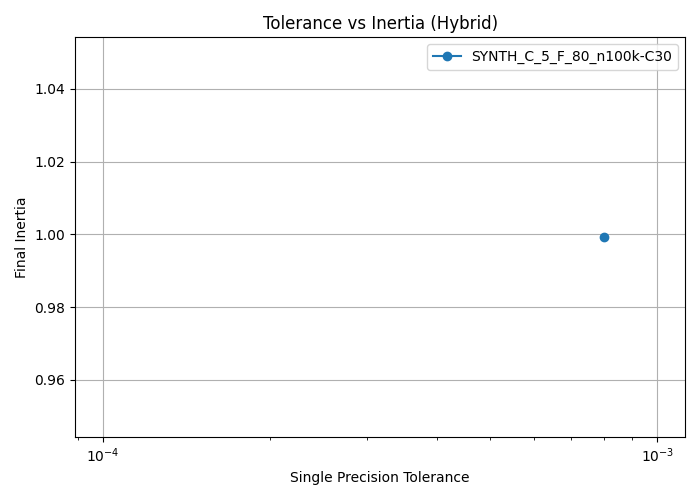
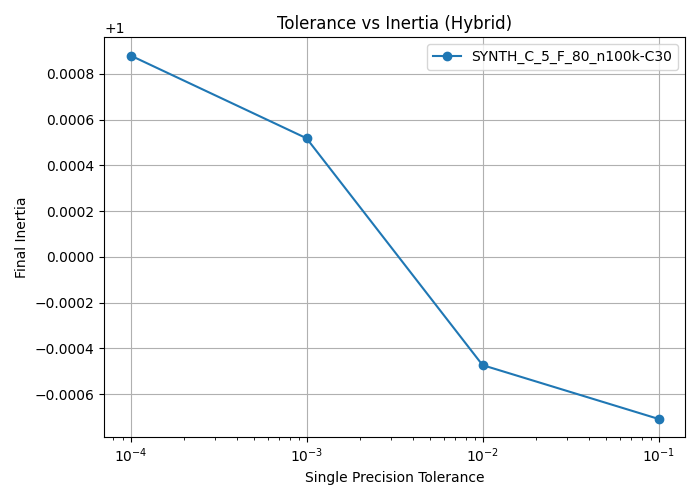
feat: exp a and b work

diff --git a/kmeans_main.py b/kmeans_main.py
@@ -73,7 +73,7 @@ precisions = {
     "Double Precision": np.float64
 }
 
-def run_one_dataset(ds_name: str, X_full: np.ndarray, y_full, rows_A, rows_B, rows_C, rows_D):
+def run_one_dataset(ds_name: str, X_full: np.ndarray, y_full, rows_A, rows_B):
     if ds_name.startswith("SYNTH"):
         sample_sizes = dataset_sizes
     else:
@@ -109,26 +109,26 @@ def run_one_dataset(ds_name: str, X_full: np.ndarray, y_full, rows_A, rows_B, ro
 
                 rows_A += run_experiment_A(ds_name, X_cur, y_true_cur, n_clusters, initial_centers, config)
                 rows_B += run_experiment_B(ds_name, X_cur, y_true_cur, n_clusters, initial_centers, config)
-                rows_C += run_experiment_C(ds_name, X_cur, y_true_cur, n_clusters, initial_centers, config)
-                rows_D += run_experiment_D(ds_name, X_cur, y_true_cur, n_clusters, initial_centers, config)
+                # rows_C += run_experiment_C(ds_name, X_cur, y_true_cur, n_clusters, initial_centers, config)
+                # rows_D += run_experiment_D(ds_name, X_cur, y_true_cur, n_clusters, initial_centers, config)
 
                     
-    return rows_A, rows_B, rows_C, rows_D
+    return rows_A, rows_B
 
 all_rows = []
 
 
 rows_A = []
 rows_B = []
-rows_C = []
-rows_D = []
+# rows_C = []
+# rows_D = []
 
 for tag, n, d, k, seed in synth_specs:
     X, y = generate_synthetic_data(n, d, k, seed)
     print(f"[SYNTH] {tag:14s}  shape={X.shape}  any_NaN={np.isnan(X).any()}",
           flush=True)
     # check if the mappings are correct to the run_one_dataset
-    run_one_dataset(tag, X, y, rows_A, rows_B, rows_C, rows_D)
+    run_one_dataset(tag, X, y, rows_A, rows_B)
 
 # real datasets
 # for tag, loader in real_datasets.items():
@@ -137,8 +137,8 @@ for tag, n, d, k, seed in synth_specs:
 
 df_A = pd.DataFrame(rows_A, columns=columns_A)
 df_B = pd.DataFrame(rows_B, columns=columns_B)
-df_C= pd.DataFrame(rows_C, columns=columns_C)
-df_D = pd.DataFrame(rows_D, columns=columns_D)
+# df_C= pd.DataFrame(rows_C, columns=columns_C)
+# df_D = pd.DataFrame(rows_D, columns=columns_D)
 
 print("Saved:")
 print("- hybrid_kmeans_results_expA.csv")
@@ -158,19 +158,19 @@ print(df_B.groupby([
     'tolerance_single', 'iter_single', 'iter_double', 'Suite'
 ])[['Time', 'Memory_MB', 'ARI', 'DBI', 'Inertia']].mean())
 
-# === SUMMARY: Experiment C ===
-print("\n==== SUMMARY: EXPERIMENT C ====")
-print(df_C.groupby([
-    'DatasetSize', 'NumClusters', 'Mode', 'Cap',
-    'tolerance_single', 'iter_single', 'iter_double', 'Suite'
-])[['Time', 'Memory_MB', 'ARI', 'DBI', 'Inertia']].mean())
+# # === SUMMARY: Experiment C ===
+# print("\n==== SUMMARY: EXPERIMENT C ====")
+# print(df_C.groupby([
+#     'DatasetSize', 'NumClusters', 'Mode', 'Cap',
+#     'tolerance_single', 'iter_single', 'iter_double', 'Suite'
+# ])[['Time', 'Memory_MB', 'ARI', 'DBI', 'Inertia']].mean())
 
-# === SUMMARY: Experiment D ===
-print("\n==== SUMMARY: EXPERIMENT D ====")
-print(df_D.groupby([
-    'DatasetSize', 'NumClusters', 'Mode',
-    'tolerance_single', 'iter_single', 'iter_double', 'Suite'
-])[['Time', 'Memory_MB', 'ARI', 'DBI', 'Inertia']].mean())
+# # === SUMMARY: Experiment D ===
+# print("\n==== SUMMARY: EXPERIMENT D ====")
+# print(df_D.groupby([
+#     'DatasetSize', 'NumClusters', 'Mode',
+#     'tolerance_single', 'iter_single', 'iter_double', 'Suite'
+# ])[['Time', 'Memory_MB', 'ARI', 'DBI', 'Inertia']].mean())
 
 
 # how to plot for the different types of graphs that we have
@@ -178,13 +178,13 @@ print(df_D.groupby([
 # Cap-based plots (Experiments A & C)
 plot_cap_vs_time(df_A)
 plot_hybrid_cap_vs_inertia(df_A)
-plot_cap_vs_time(df_C)
-plot_hybrid_cap_vs_inertia(df_C)
+# plot_cap_vs_time(df_C)
+# plot_hybrid_cap_vs_inertia(df_C)
 # Tolerance-based plots (Experiments B & D)
 plot_tolerance_vs_time(df_B)
 plot_tolerance_vs_inertia(df_B)
-plot_tolerance_vs_time(df_D)
-plot_tolerance_vs_inertia(df_D)
+# plot_tolerance_vs_time(df_D)
+# plot_tolerance_vs_inertia(df_D)
 
 print(os.getcwd())
 
